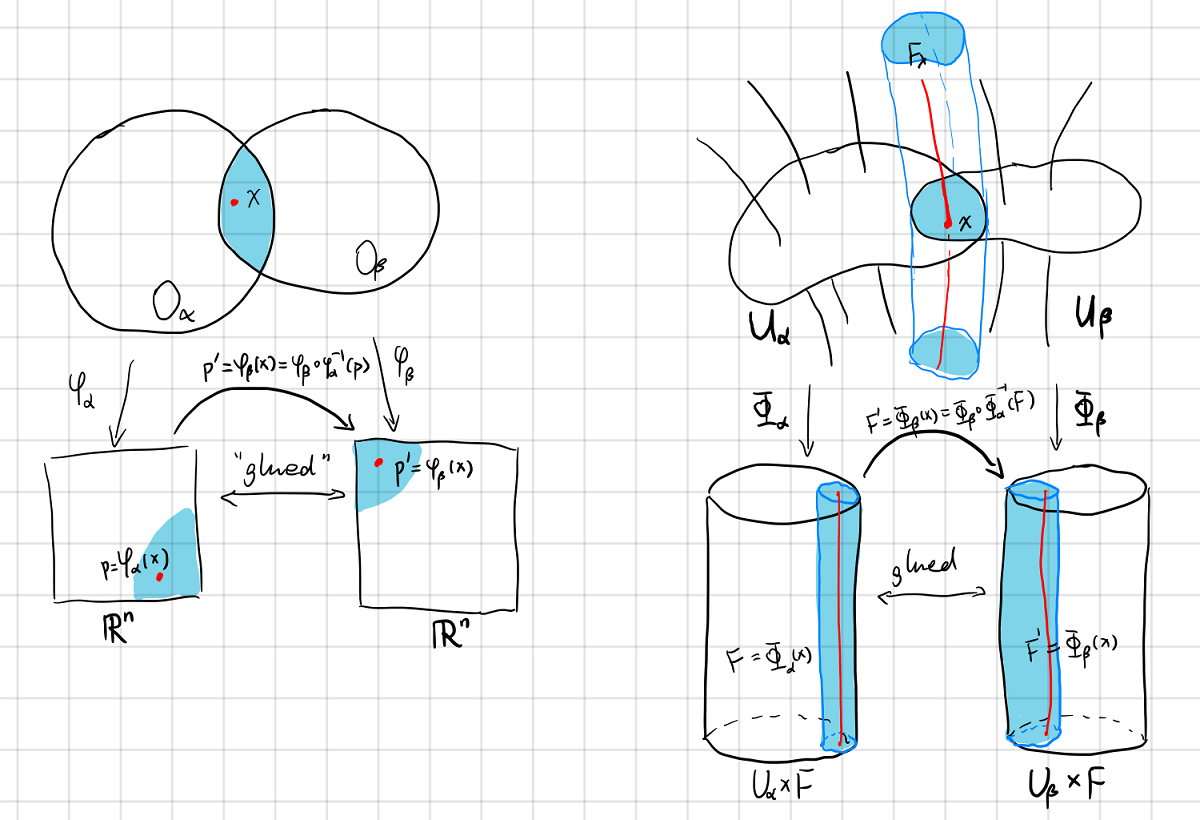
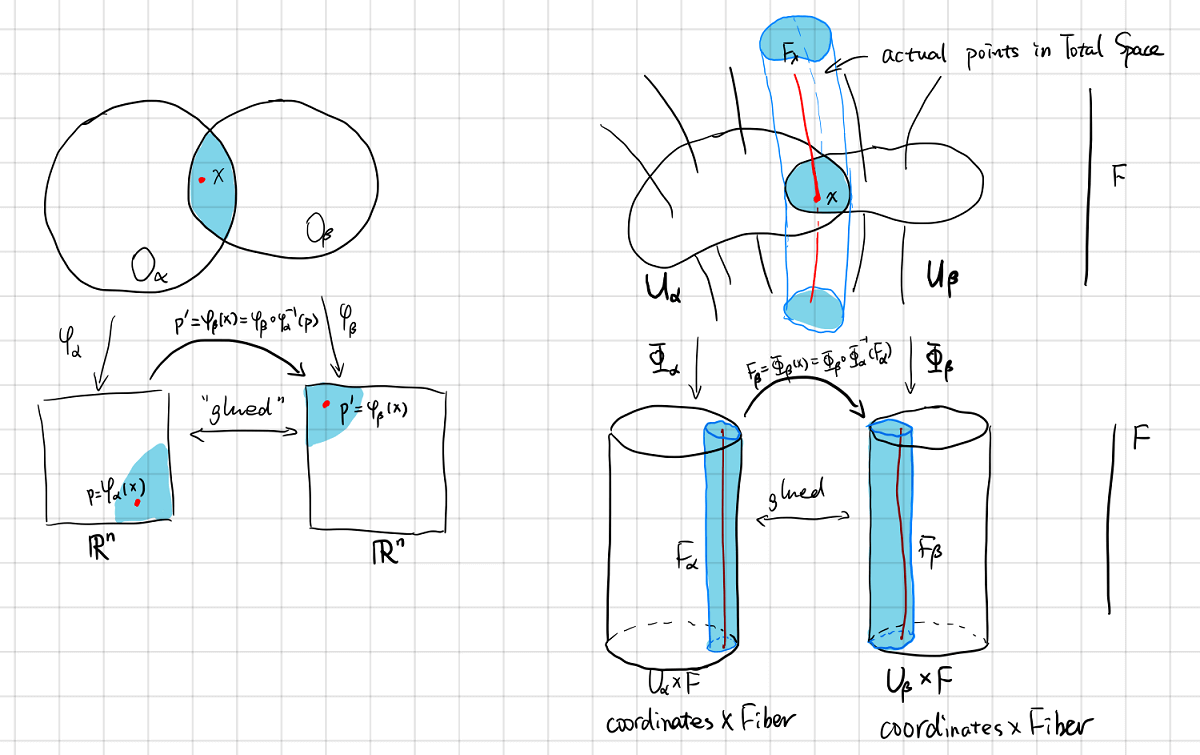
update fiber bundle

diff --git a/_posts/2018-12-10-Fiber-and-Fiber-Bundles/2018-12-09-Fiber-and-Fiber-Bundles.md b/_posts/2018-12-10-Fiber-and-Fiber-Bundles/2018-12-09-Fiber-and-Fiber-Bundles.md
@@ -204,14 +204,14 @@ Formally, a (differentiable) fiber bundle is a triple $(E,\pi,M)$ consists of th
 
 ## Transition Functions
 
-Recall that the topological aspect of a manifold is represented as how the charts are glued together. The topological aspect of a fiber bundle is best represented by the transition functions.
+Recall that the topological aspect of a manifold is represented as how the charts are glued together. The topological aspect of a fiber bundle is best represented by the transition functions. In the following diagram, the red dots on the left are "glued" together, the red lines on the right are "glued" together.
 
-<img src='https://raw.githubusercontent.com/yk-liu/yk-liu.github.io/master/_posts/2018-12-10-Fiber-and-Fiber-Bundles/assets/Transition-function.png' width="60%" alt="Transition function indicates how the fibers are glued">
+<img src='https://raw.githubusercontent.com/yk-liu/yk-liu.github.io/master/_posts/2018-12-10-Fiber-and-Fiber-Bundles/assets/Transition-function.png' width="70%" alt="Transition function indicates how the fibers are glued">
 
-The Transition function is denoted as $G_{\alpha,\beta}$
+The transition function is denoted as $G_{\alpha,\beta}$
 $$
 G_{\alpha,\beta}(x)\dfdas\Phi_\alpha\circ\Phi_\beta^{-1}(x): F_\alpha\rightarrow F_\beta,\quad \forall x \in U_\alpha \cap U_\beta
 $$
-Since the fibers
+Since the fibers $F_\alpha$ and $F_\beta$ are diffeomorphic to typical fiber $F$, $G_{\alpha,\beta}$ is a map from $F$ to $F $ itself.
 
 <img src='https://raw.githubusercontent.com/yk-liu/yk-liu.github.io/master/_posts/2018-12-10-Fiber-and-Fiber-Bundles/assets/Galphabetamap.png' width="40%" alt="G_alpha,beta map">
